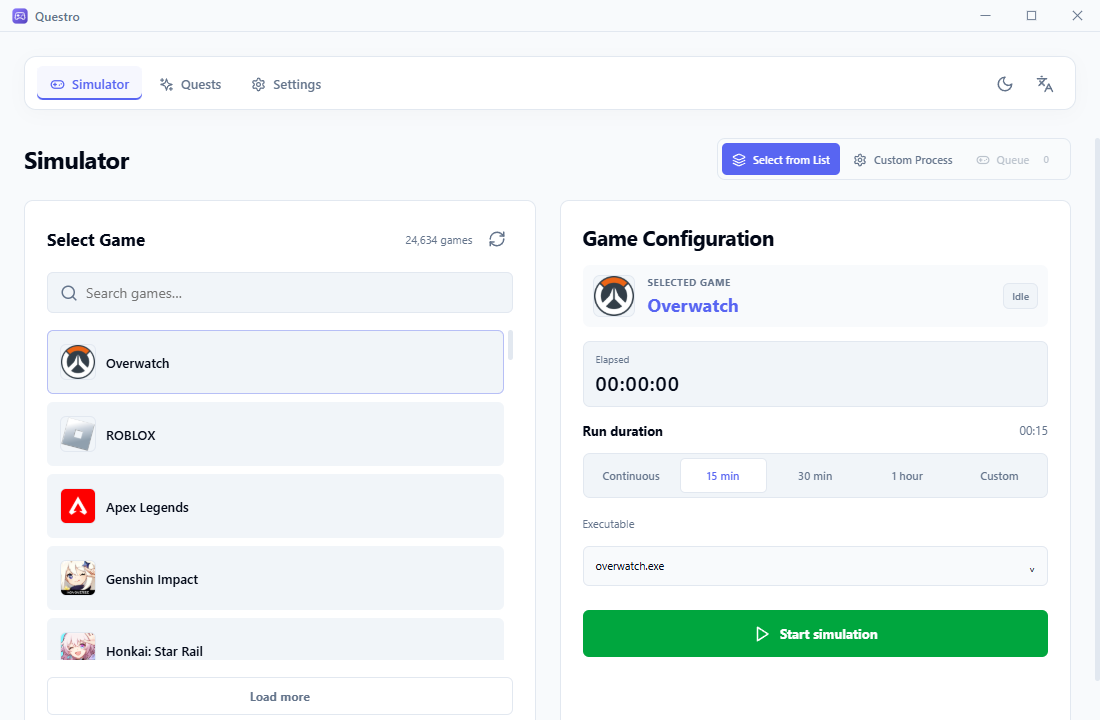
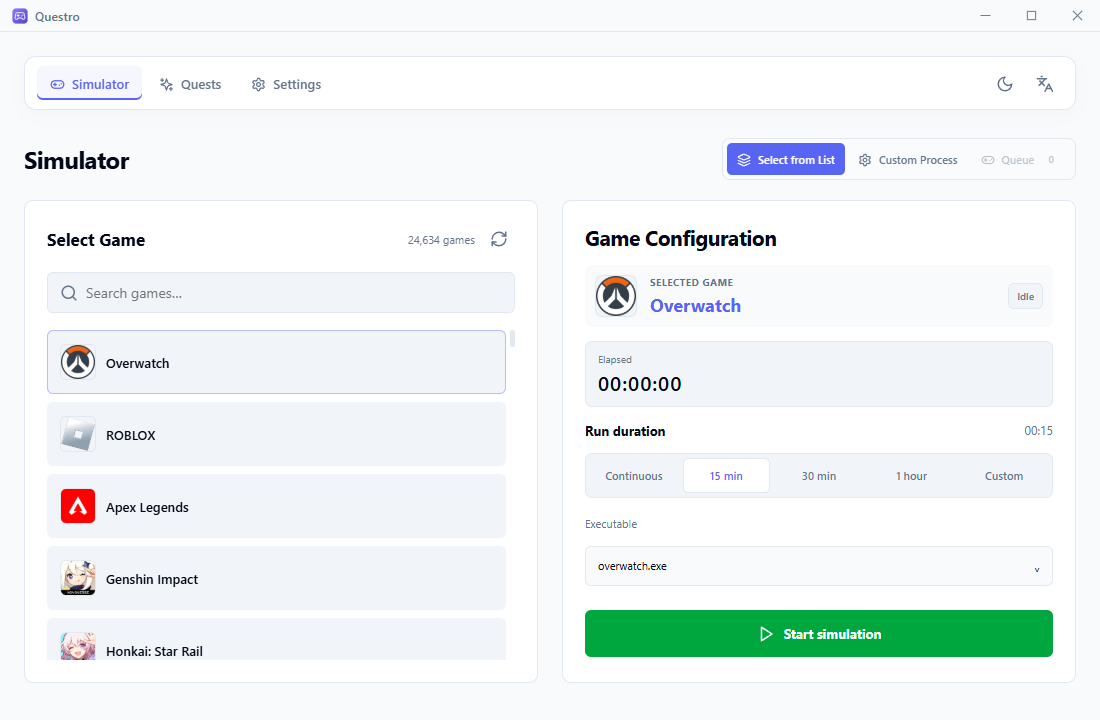
Load further games automatically when scrolling the list

diff --git a/public/js/app.js b/public/js/app.js
@@ -19,8 +19,8 @@ function artwork(game){const urls=[];if(game.artwork||game.image)urls.push(game.
 function artworkLoaded(image){image.hidden=false;if(image.nextElementSibling)image.nextElementSibling.hidden=true;}
 function nextArtwork(image){const remaining=JSON.parse(image.dataset.fallbacks||'[]');if(remaining.length){image.dataset.fallbacks=JSON.stringify(remaining.slice(1));image.src=remaining[0];}else{image.hidden=true;if(image.nextElementSibling)image.nextElementSibling.hidden=false;}}
 function empty(title,description,icon='gamepad'){const block=document.createElement('div');block.className='empty-state';block.innerHTML=getIcon(icon);const heading=document.createElement('h2');heading.textContent=title;block.appendChild(heading);if(description){const text=document.createElement('p');text.textContent=description;block.appendChild(text);}return block;}
-async function fetchGames(append=false){if(append&&state.gameLoading)return;const token=++state.gameSequence;state.gameLoading=true;if(!append&&!state.games.length){$('simulator-game-list').innerHTML='<div class="skeleton-row"></div><div class="skeleton-row"></div><div class="skeleton-row"></div>';}$('load-more-games').disabled=true;try{const data=await request(`/api/games?q=${encodeURIComponent(state.query)}&category=${encodeURIComponent(state.category)}&offset=${append?state.games.length:0}&limit=50`);if(token!==state.gameSequence)return;state.games=append?[...state.games,...(data.games||[])]:data.games||[];state.total=data.total??state.games.length;state.hasMore=!!data.hasMore;renderGames();}catch{if(token===state.gameSequence){$('simulator-game-list').replaceChildren(empty(t('games_error')));}}finally{if(token===state.gameSequence){state.gameLoading=false;$('load-more-games').disabled=false;}}}
-function renderGames(){const list=$('simulator-game-list'),scroll=list.scrollTop,contentScroll=document.querySelector('.app-content').scrollTop;list.replaceChildren();if(!state.games.length){list.appendChild(empty(t('no_games')));return;}state.games.forEach((game,index)=>{const button=document.createElement('button');button.className='game-item'+(state.selectedGame?.id===game.id?' selected':'');button.title=game.name;button.dataset.appId=game.id;button.innerHTML=`<div class="artwork">${artwork(game)}</div><div><div class="game-name">${escapeHtml(game.name)}</div>${!game.resolution?.primaryExecutable?'<div class="game-subtitle">'+t('presence_only')+'</div>':''}</div><span class="row-chevron">${document.documentElement.dir==='rtl'?'‹':'›'}</span>`;button.onclick=()=>selectGame(game);button.onkeydown=event=>{if(event.key==='ArrowDown'||event.key==='ArrowUp'){event.preventDefault();list.children[Math.max(0,Math.min(state.games.length-1,index+(event.key==='ArrowDown'?1:-1)))].focus();}};list.appendChild(button);});$('load-more-games').hidden=!state.hasMore;list.scrollTop=scroll;document.querySelector('.app-content').scrollTop=contentScroll;}
+async function fetchGames(append=false){if(append&&(state.gameLoading||!state.hasMore))return;const token=++state.gameSequence,query=state.query;state.gameLoading=true;if(!append&&!state.games.length){$('simulator-game-list').innerHTML='<div class="skeleton-row"></div><div class="skeleton-row"></div><div class="skeleton-row"></div>';}$('simulator-game-list').setAttribute('aria-busy','true');try{const data=await request(`/api/games?q=${encodeURIComponent(query)}&category=${encodeURIComponent(state.category)}&offset=${append?state.games.length:0}&limit=50`);if(token!==state.gameSequence||query!==state.query)return;state.games=append?[...state.games,...(data.games||[])]:data.games||[];state.total=data.total??state.games.length;state.hasMore=!!data.hasMore;state.loadedQuery=query;renderGames();}catch{if(token===state.gameSequence){if(!append)$('simulator-game-list').replaceChildren(empty(t('games_error')));else toast(t('games_error'),'error');}}finally{if(token===state.gameSequence){state.gameLoading=false;$('simulator-game-list').setAttribute('aria-busy','false');}}}
+function renderGames(){const list=$('simulator-game-list'),scroll=list.scrollTop,contentScroll=document.querySelector('.app-content').scrollTop;list.replaceChildren();if(!state.games.length){list.appendChild(empty(t('no_games')));return;}state.games.forEach((game,index)=>{const button=document.createElement('button');button.className='game-item'+(state.selectedGame?.id===game.id?' selected':'');button.title=game.name;button.dataset.appId=game.id;button.innerHTML=`<div class="artwork">${artwork(game)}</div><div><div class="game-name">${escapeHtml(game.name)}</div>${!game.resolution?.primaryExecutable?'<div class="game-subtitle">'+t('presence_only')+'</div>':''}</div><span class="row-chevron">${document.documentElement.dir==='rtl'?'‹':'›'}</span>`;button.onclick=()=>selectGame(game);button.onkeydown=event=>{if(event.key==='ArrowDown'||event.key==='ArrowUp'){event.preventDefault();list.children[Math.max(0,Math.min(state.games.length-1,index+(event.key==='ArrowDown'?1:-1)))].focus();}};list.appendChild(button);});list.scrollTop=scroll;document.querySelector('.app-content').scrollTop=contentScroll;}
 function selectGame(game){state.selectedGame=game;state.selectedExecutable=game.resolution?.primaryExecutable||'';$('sim-game-avatar').innerHTML=artwork(game);$('custom-exe-input').value=state.selectedExecutable;renderSelected(true);document.querySelectorAll('.game-item').forEach(row=>row.classList.toggle('selected',row.dataset.appId===game.id));renderSession();}
 function renderSelected(resetInput=false){const hasGame=!!state.selectedGame; $('game-empty').hidden=hasGame; for(const el of document.querySelectorAll('.session-panel > .game-overview,.session-panel > .session-clock,.session-panel > .duration-section,.session-panel > .executable-settings,.session-panel > .session-actions'))el.hidden=!hasGame;const game=state.selectedGame;if(!game){$('sim-game-title').textContent=t('pick_game');$('sim-game-avatar').innerHTML='<span class="art-placeholder">'+getIcon('gamepad')+'</span>';}$('sim-game-title').textContent=game?.name||t('pick_game');if(game)$('sim-game-title').removeAttribute('data-i18n');const resolution=game?.resolution||{},select=$('sim-executable-select'),choices=resolution.executables||[];select.replaceChildren();const blank=document.createElement('option');blank.value='';blank.textContent=t('select_exe');select.appendChild(blank);for(const name of choices){const option=document.createElement('option');option.value=name;option.textContent=name;select.appendChild(option);}if(state.selectedExecutable&&!choices.includes(state.selectedExecutable)){const option=document.createElement('option');option.value=state.selectedExecutable;option.textContent=state.selectedExecutable;select.appendChild(option);}select.value=state.selectedExecutable;renderExecutableDropdown();if(resetInput)$('custom-exe-input').value=state.selectedExecutable;document.querySelector('.custom-file-row').hidden=state.mode!=='custom'&&!!resolution.primaryExecutable;const key=resolution.status==='official_verified'?'official_source':resolution.status==='local_steam_discovered'?'local_source':resolution.status==='custom_override'?'custom_source':resolution.status==='unverified_catalog'?'candidate_source':'no_source';$('executable-source').textContent=game?t(key):'';$('executable-source').hidden=true;$('resolution-note').hidden=true;$('resolution-note').textContent=t('presence_only_hint');}
 function setDuration(value,custom=false){state.durationMinutes=value;state.durationValid=!custom||value>=1;$('duration-error').hidden=state.durationValid;document.querySelectorAll('.duration-preset').forEach(button=>button.classList.toggle('active',button.dataset.duration===(custom?'custom':String(value))));$('idle-custom-input-row').hidden=!custom;$('duration-summary').textContent=value?hm(value):t('idle_continuous');renderSession();}
@@ -102,7 +102,7 @@ document.addEventListener('DOMContentLoaded',()=>{
  document.querySelectorAll('[data-tab]').forEach(button=>button.onclick=()=>switchTab(button.dataset.tab));
  $('lang-menu-btn').onclick=event=>{event.stopPropagation();$('lang-dropdown-menu').hidden=!$('lang-dropdown-menu').hidden;};document.querySelectorAll('[data-lang]').forEach(button=>button.onclick=()=>{setLanguage(button.dataset.lang);$('lang-dropdown-menu').hidden=true;});document.addEventListener('click',()=>$('lang-dropdown-menu').hidden=true);
  $('theme-toggle-btn').onclick=toggleTheme;applyTheme(state.theme);document.documentElement.dataset.motion=state.motion?'full':'reduced';
- let debounce;$('game-search-input').oninput=event=>{state.query=event.target.value.trim();clearTimeout(debounce);debounce=setTimeout(()=>fetchGames(),180);};$('game-search-input').onkeydown=event=>{if(event.key==='ArrowDown'){$('simulator-game-list').querySelector('button')?.focus();event.preventDefault();}};$('load-more-games').onclick=()=>fetchGames(true);
+ let debounce;$('game-search-input').oninput=event=>{state.query=event.target.value.trim();clearTimeout(debounce);debounce=setTimeout(()=>fetchGames(),180);};$('game-search-input').onkeydown=event=>{if(event.key==='ArrowDown'){$('simulator-game-list').querySelector('button')?.focus();event.preventDefault();}};$('simulator-game-list').addEventListener('scroll',event=>{const list=event.currentTarget;if(state.hasMore&&!state.gameLoading&&state.loadedQuery===state.query&&list.scrollHeight-list.scrollTop-list.clientHeight<=80)fetchGames(true);},{passive:true});
  document.querySelectorAll('.duration-preset').forEach(button=>button.onclick=()=>{if(button.dataset.duration==='custom'){const h=Math.floor(state.durationMinutes/60),m=state.durationMinutes%60;$('duration-hours').value=h;$('duration-minutes').value=m;setDuration(state.durationMinutes,true);}else setDuration(Number(button.dataset.duration));});for(const id of ['duration-hours','duration-minutes'])$(id).oninput=()=>{try{setDuration(readDuration($('duration-hours'),$('duration-minutes')),true);}catch{state.durationValid=false;$('duration-error').hidden=false;$('duration-summary').textContent='—';renderSession();}};
  $('sim-executable-select').onchange=event=>{state.selectedExecutable=event.target.value;$('custom-exe-input').value=state.selectedExecutable;renderSelected();renderSession();};$('save-override-btn').onclick=saveExecutable;$('btn-toggle-sim').onclick=toggleSimulation;
  $('queue-start-btn').onclick=()=>queueRequest('/api/queue/start');$('queue-next-btn').onclick=()=>queueRequest('/api/queue/next');$('queue-cancel-btn').onclick=()=>queueRequest('/api/stop');$('queue-clear-btn').onclick=()=>queueRequest('/api/queue/items',{action:'clear'});

diff --git a/tools/verify-tauri-ui.js b/tools/verify-tauri-ui.js
@@ -2,7 +2,7 @@
 const fs=require('fs'),path=require('path'),assert=require('node:assert/strict');
 const {spawn,execFileSync}=require('child_process');
 const {chromium}=require(process.env.QUESTRA_PLAYWRIGHT||'playwright');
-const root=path.resolve(__dirname,'..'),exe=path.join(root,'dist/Questro-Tauri/Questro.exe');
+const root=path.resolve(__dirname,'..'),exe=process.env.QUESTRO_TEST_BINARY||path.join(root,'dist/Questro-Tauri/Questro.exe');
 fs.mkdirSync(path.join(root,'data/.test-temp'),{recursive:true});
 const fixture=fs.mkdtempSync(path.join(root,'data/.test-temp/questro-tauri-ui-'));
 fs.mkdirSync(path.join(fixture,'data'),{recursive:true});
@@ -19,7 +19,7 @@ let browser,page;const checks=[],errors=[];child.stderr.on('data',b=>errors.push
 (async()=>{try{
  let endpoint;for(let n=0;n<100;n++){if(child.exitCode!==null)throw Error('Tauri exited: '+errors.join(''));try{const response=await fetch('http://127.0.0.1:9387/json/version');if(response.ok){endpoint=(await response.json()).webSocketDebuggerUrl;break;}}catch{}await new Promise(r=>setTimeout(r,200));}assert.ok(endpoint,'WebView2 debugging endpoint');
  browser=await chromium.connectOverCDP(endpoint);for(let n=0;n<50;n++){page=browser.contexts().flatMap(c=>c.pages()).find(p=>p.url().includes('tauri.localhost'));if(page)break;await new Promise(r=>setTimeout(r,200));}assert.ok(page,'Embedded main page');page.on('pageerror',e=>errors.push(e.stack||e.message));await page.waitForFunction(()=>typeof state!=='undefined'&&state.games.length&&state.stats);await page.evaluate(()=>setLanguage('en'));
- assert.equal(await page.locator('#game-empty').isVisible(),true);assert.equal(await page.locator('[data-sim-mode=selected]').isDisabled(),true);assert.equal(await page.evaluate(()=>!!window.questroRequest),true);checks.push('Real Tauri IPC loads the public catalog and initial empty configuration');
+ assert.equal(await page.locator('#load-more-games').count(),0);if(await page.evaluate(()=>state.hasMore)){const before=await page.evaluate(()=>state.games.length);await page.locator('#simulator-game-list').evaluate(el=>{el.scrollTop=el.scrollHeight;el.dispatchEvent(new Event('scroll'));});await page.waitForFunction(n=>state.games.length>n,before);checks.push('Scrolling to the end loads the next game page without a Load more button');}assert.equal(await page.locator('#game-empty').isVisible(),true);assert.equal(await page.locator('[data-sim-mode=selected]').isDisabled(),true);assert.equal(await page.evaluate(()=>!!window.questroRequest),true);checks.push('Real Tauri IPC loads the public catalog and initial empty configuration');
  await page.locator('.game-item').first().click();await page.locator('#exe-trigger').click();assert.equal(await page.locator('#exe-options').isVisible(),true);await page.keyboard.press('Escape');checks.push('Reference executable dropdown works in WebView2');
  await page.locator('[data-sim-mode=custom]').click();await page.locator('#custom-exe-input').fill('tauri-ui-first.exe');await page.locator('#btn-toggle-sim').click();await page.waitForFunction(()=>state.session?.executableName==='tauri-ui-first.exe');const pid=await page.evaluate(()=>state.session.pid);assert.notEqual(pid,child.pid);assert.ok((await page.evaluate(()=>state.session.executablePath)).startsWith(path.join(fixture,'games')));const windows=JSON.parse(execFileSync('powershell.exe',['-NoProfile','-ExecutionPolicy','Bypass','-File',path.join(root,'tools/probe-owned-window.ps1'),'-TargetProcessId',String(pid)],{encoding:'utf8',windowsHide:true}));assert.ok(windows.nativeWindows>0);assert.equal(windows.nativeWindows,windows.minimizedWindows);assert.equal(windows.taskbarEligibleWindows,0);checks.push('Native helper window remains minimized without a separate taskbar entry');
  await page.locator('#custom-exe-input').fill('tauri-ui-second.exe');assert.equal(await page.locator('#btn-sim-text').innerText(),'Play next');await page.locator('#btn-toggle-sim').click();await page.waitForFunction(()=>state.queue.items.length===2);assert.equal(await page.evaluate(()=>state.session.pid),pid);await page.locator('[data-sim-mode=selected]').click();assert.equal(await page.locator('#queue-list .queue-item').count(),2);checks.push('Native owned helper starts; Play next preserves PID and enables Queue');

diff --git a/public/index.html b/public/index.html
@@ -26,7 +26,6 @@
    <div class="panel-heading"><h2 data-i18n="select_game">اختر لعبة</h2><div class="picker-heading-actions"><span id="catalog-count-badge" class="quiet-count">—</span><button id="refresh-games-btn" class="icon-button" data-i18n-title="refresh_catalog" data-i18n-aria-label="refresh_catalog"><span id="refresh-games-icon" class="refresh-icon"></span></button></div></div>
    <div class="search-field"><span id="search-icon-slot"></span><input id="game-search-input" type="search" autocomplete="off" data-i18n-placeholder="search_placeholder" data-i18n-aria-label="search_placeholder"></div>
    <div id="simulator-game-list" class="game-list" data-i18n-aria-label="games"></div>
-   <button id="load-more-games" class="button button-quiet load-more" hidden data-i18n="load_more">عرض المزيد</button>
   </aside>
   <div class="session-column">
    <section class="panel session-panel"><div class="configuration-heading"><h2 data-i18n="game_configuration">إعدادات اللعبة</h2></div>

diff --git a/src/Launcher.cs b/src/Launcher.cs
@@ -1,2 +1,2 @@
 using System;using System.Diagnostics;using System.IO;using System.Windows.Forms;
-namespace Questro {static class Program {[STAThread]static void Main(){string exe=Path.Combine(AppDomain.CurrentDomain.BaseDirectory,"dist","Questro-Tauri","Questro.exe");if(!File.Exists(exe)){MessageBox.Show("Build not found. Run npm run build from the project folder.","Questro");return;}try{Process.Start(new ProcessStartInfo{FileName=exe,WorkingDirectory=Path.GetDirectoryName(exe),UseShellExecute=false,CreateNoWindow=true});}catch(Exception e){MessageBox.Show(e.Message,"Questro");}}}}
+namespace Questro {static class Program {[STAThread]static void Main(){string exe=Path.Combine(AppDomain.CurrentDomain.BaseDirectory,"dist","Questro-Tauri","Questro.exe");string pending=exe+".pending";if(File.Exists(pending)){try{File.Copy(pending,exe,true);File.Delete(pending);}catch(IOException){}catch(UnauthorizedAccessException){}}if(!File.Exists(exe)){MessageBox.Show("Build not found. Run npm run build from the project folder.","Questro");return;}try{Process.Start(new ProcessStartInfo{FileName=exe,WorkingDirectory=Path.GetDirectoryName(exe),UseShellExecute=false,CreateNoWindow=true});}catch(Exception e){MessageBox.Show(e.Message,"Questro");}}}}

diff --git a/src-tauri/src/main.rs b/src-tauri/src/main.rs
@@ -110,7 +110,18 @@ fn main() {
         storage::save(&root.join("data/tauri-verification.json"), &result).unwrap();
         return;
     }
-    if !single_instance() {
+    let isolated_ui_test = std::env::args().any(|a| a == "--verify-ui")
+        && std::env::var_os("QUESTRO_DATA_ROOT").is_some()
+        && root
+            .file_name()
+            .and_then(|n| n.to_str())
+            .is_some_and(|n| n.starts_with("questro-tauri-ui-"))
+        && root
+            .parent()
+            .and_then(|p| p.file_name())
+            .and_then(|n| n.to_str())
+            == Some(".test-temp");
+    if !isolated_ui_test && !single_instance() {
         return;
     }
     let state = Arc::new(Mutex::new(
